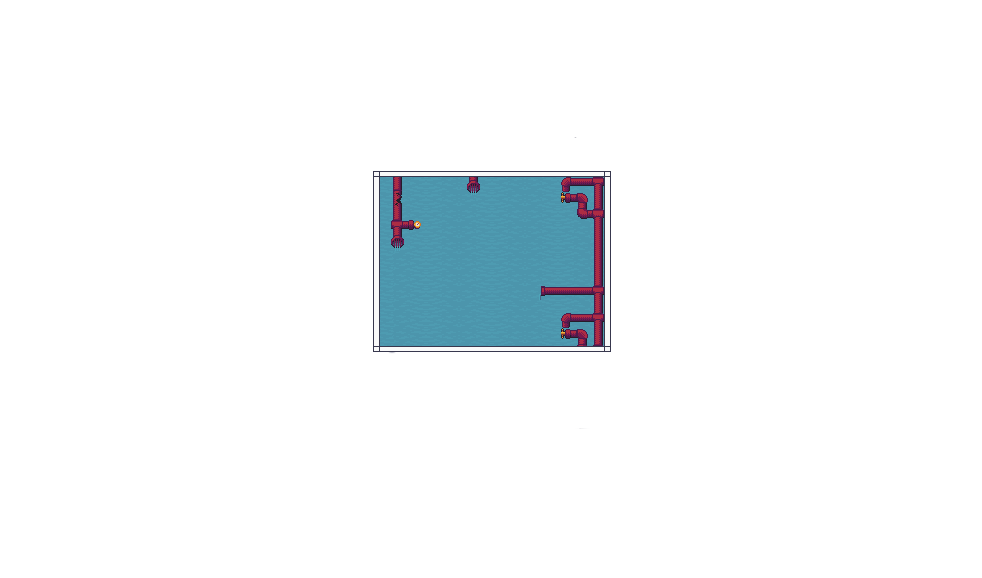
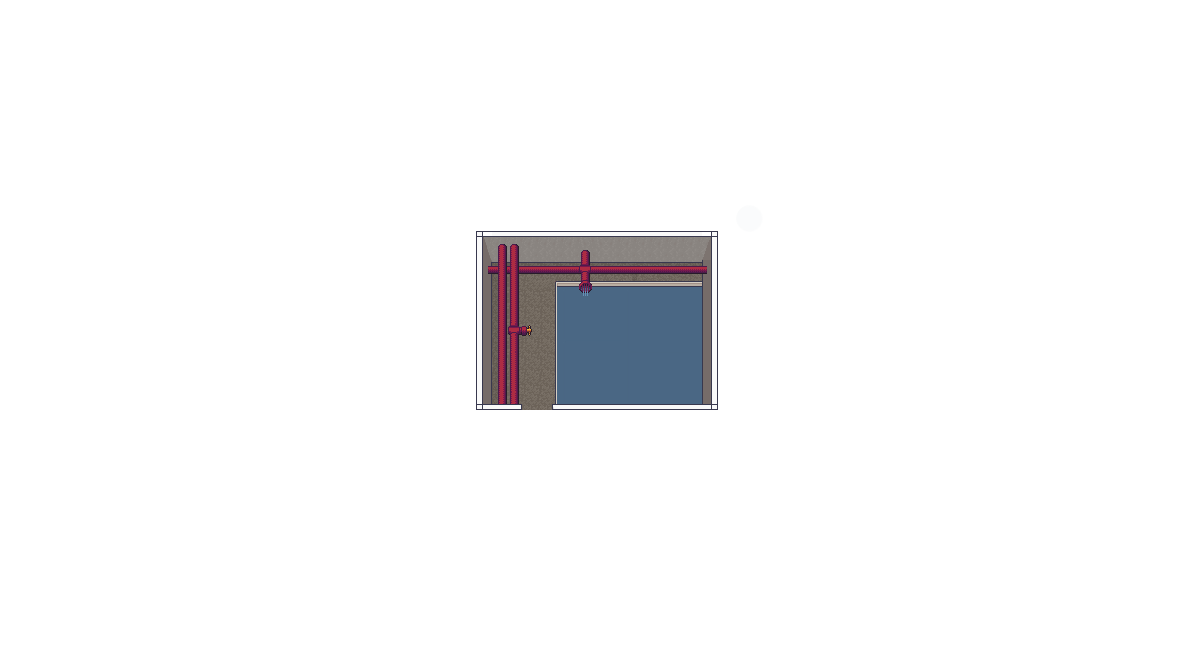
testing new level 1 map

Changed region(s): [[0.3666, 0.2803, 0.6415, 0.6228]]

diff --git a/Walls.js b/Walls.js
@@ -69,105 +69,54 @@ const wallsHouse = {
 };
 
 const wallsLevel1 = {            
-            [utils.asGridCoords(23.5, 10)]: true, 
-            [utils.asGridCoords(25.5, 14)]: true,
-            [utils.asGridCoords(24.5, 14)]: true,
-            [utils.asGridCoords(24.5, 15)]: true,
-            [utils.asGridCoords(24.5, 13)]: true,
-            [utils.asGridCoords(24.5, 12)]: true,
-            [utils.asGridCoords(24.5, 11)]: true,
-            [utils.asGridCoords(24.5, 10)]: true,
-            [utils.asGridCoords(25.5, 10)]: true,
-            [utils.asGridCoords(26.5, 10)]: true,
-            [utils.asGridCoords(27.5, 10)]: true,
-            [utils.asGridCoords(28.5, 10)]: true, 
-            [utils.asGridCoords(29.5, 10)]: true, 
-            [utils.asGridCoords(30.5, 10)]: true,
-            [utils.asGridCoords(31.5, 10)]: true, 
-            [utils.asGridCoords(32.5, 10)]: true,
-            [utils.asGridCoords(33.5, 10)]: true,
-            [utils.asGridCoords(34.5, 10)]: true,
-            [utils.asGridCoords(35.5, 10)]: true,
-            [utils.asGridCoords(36.5, 10)]: true,
-            [utils.asGridCoords(37.5, 10)]: true,
-            [utils.asGridCoords(38.5, 10)]: true,
-            [utils.asGridCoords(38.5, 11)]: true,
-            [utils.asGridCoords(38.5, 12)]: true,
-            [utils.asGridCoords(38.5, 13)]: true,
-            [utils.asGridCoords(38.5, 14)]: true,
-            [utils.asGridCoords(38.5, 15)]: true,
-            [utils.asGridCoords(38.5, 16)]: true,
-            [utils.asGridCoords(38.5, 17)]: true,
-            [utils.asGridCoords(38.5, 18)]: true,
-            [utils.asGridCoords(38.5, 19)]: true,
-            [utils.asGridCoords(38.5, 20)]: true,
-            [utils.asGridCoords(38.5, 21)]: true,
-            [utils.asGridCoords(38.5, 22)]: true,
-            [utils.asGridCoords(37.5, 22)]: true,
-            [utils.asGridCoords(36.5, 22)]: true,
-            [utils.asGridCoords(35.5, 22)]: true,
-            [utils.asGridCoords(34.5, 22)]: true,
-            [utils.asGridCoords(33.5, 22)]: true,
-            [utils.asGridCoords(32.5, 22)]: true,
-            [utils.asGridCoords(31.5, 22)]: true,
-            [utils.asGridCoords(30.5, 22)]: true,
-            [utils.asGridCoords(29.5, 22)]: true,
-            [utils.asGridCoords(28.5, 22)]: true,
-            [utils.asGridCoords(27.5, 22)]: true,
-            [utils.asGridCoords(26.5, 22)]: true,
-            [utils.asGridCoords(25.5, 22)]: true,
-            [utils.asGridCoords(24.5, 22)]: true,
-            [utils.asGridCoords(23.5, 22)]: true,
-            [utils.asGridCoords(22.5, 22)]: true,
-            [utils.asGridCoords(22.5, 21)]: true,
-            [utils.asGridCoords(22.5, 20)]: true,
-            [utils.asGridCoords(22.5, 19)]: true,
-            [utils.asGridCoords(22.5, 18)]: true,
-            [utils.asGridCoords(22.5, 17)]: true,
-            [utils.asGridCoords(22.5, 16)]: true,
-            [utils.asGridCoords(22.5, 15)]: true,
-            [utils.asGridCoords(22.5, 14)]: true,
-            [utils.asGridCoords(22.5, 13)]: true,
-            [utils.asGridCoords(22.5, 12)]: true,
-            [utils.asGridCoords(22.5, 11)]: true,
-            [utils.asGridCoords(22.5, 10)]: true,
-            [utils.asGridCoords(29.5, 11)]: true,
-            [utils.asGridCoords(39.5, 11)]: true,
-            [utils.asGridCoords(39.5, 12)]: true,
-            [utils.asGridCoords(40.5, 12)]: true,
-            [utils.asGridCoords(40.5, 13)]: true,
-            [utils.asGridCoords(41.5, 13)]: true,
-            [utils.asGridCoords(41.5, 14)]: true,
-            [utils.asGridCoords(41.5, 15)]: true,
-            [utils.asGridCoords(41.5, 18)]: true,
-            [utils.asGridCoords(41.5, 16)]: true,
-            [utils.asGridCoords(41.5, 18)]: true,
-            [utils.asGridCoords(41.5, 17)]: true,
-            [utils.asGridCoords(41.5, 19)]: true,
-            [utils.asGridCoords(41.5, 20)]: true,
-            [utils.asGridCoords(41.5, 21)]: true,
-            [utils.asGridCoords(40.5, 21)]: true,
-            [utils.asGridCoords(40.5, 20)]: true,
-            [utils.asGridCoords(39.5, 20)]: true,
-            [utils.asGridCoords(35.5, 12)]: true,
-            [utils.asGridCoords(35.5, 11)]: true,
-            [utils.asGridCoords(36.5, 11)]: true,
-            [utils.asGridCoords(36.5, 13)]: true,
-            [utils.asGridCoords(37.5, 11)]: true,
-            [utils.asGridCoords(37.5, 12)]: true,
-            [utils.asGridCoords(37.5, 13)]: true,
-            [utils.asGridCoords(37.5, 14)]: true,
-            [utils.asGridCoords(37.5, 15)]: true,
+            // Horizontal walls (top)
+            [utils.asGridCoords(31.5, 16)]: true,
+            [utils.asGridCoords(32.5, 16)]: true,
+            [utils.asGridCoords(33.5, 16)]: true,
+            [utils.asGridCoords(34.5, 16)]: true,
+            [utils.asGridCoords(35.5, 16)]: true,
+            [utils.asGridCoords(36.5, 16)]: true,
             [utils.asGridCoords(37.5, 16)]: true,
-            [utils.asGridCoords(37.5, 17)]: true,
-            [utils.asGridCoords(37.5, 18)]: true,
-            [utils.asGridCoords(37.5, 19)]: true,
-            [utils.asGridCoords(37.5, 20)]: true,
-            [utils.asGridCoords(37.5, 21)]: true,
-            [utils.asGridCoords(36.5, 21)]: true,
-            [utils.asGridCoords(35.5, 20)]: true,
-            [utils.asGridCoords(36.5, 20)]: true,
-            [utils.asGridCoords(36.5, 18)]: true,
-            [utils.asGridCoords(35.5, 18)]: true,
-            [utils.asGridCoords(34.5, 18)]: true,
+            [utils.asGridCoords(38.5, 16)]: true,
+            [utils.asGridCoords(39.5, 16)]: true,
+            [utils.asGridCoords(40.5, 16)]: true,
+            [utils.asGridCoords(41.5, 16)]: true,
+            [utils.asGridCoords(42.5, 16)]: true,
+            [utils.asGridCoords(43.5, 16)]: true,
+
+            // Vertical walls (right)
+            [utils.asGridCoords(43.5, 16)]: true,
+            [utils.asGridCoords(43.5, 17)]: true,
+            [utils.asGridCoords(43.5, 18)]: true,
+            [utils.asGridCoords(43.5, 19)]: true,
+            [utils.asGridCoords(43.5, 20)]: true,
+            [utils.asGridCoords(43.5, 21)]: true,
+            [utils.asGridCoords(43.5, 22)]: true,
+            [utils.asGridCoords(43.5, 23)]: true,
+            [utils.asGridCoords(43.5, 24)]: true,
+            [utils.asGridCoords(43.5, 25)]: true,
+
+            // Horizontal walls (bottom)
+            [utils.asGridCoords(31.5, 25)]: true,
+            [utils.asGridCoords(32.5, 25)]: true,
+            [utils.asGridCoords(33.5, 25)]: true,
+            [utils.asGridCoords(34.5, 25)]: true,
+            [utils.asGridCoords(35.5, 25)]: true,
+            [utils.asGridCoords(36.5, 25)]: true,
+            [utils.asGridCoords(37.5, 25)]: true,
+            [utils.asGridCoords(38.5, 25)]: true,
+            [utils.asGridCoords(39.5, 25)]: true,
+            [utils.asGridCoords(40.5, 25)]: true,
+            [utils.asGridCoords(41.5, 25)]: true,
+            [utils.asGridCoords(42.5, 25)]: true,
+            [utils.asGridCoords(43.5, 25)]: true,
+
+            // Vertical walls (left)
+            [utils.asGridCoords(31.5, 16)]: true,
+            [utils.asGridCoords(31.5, 17)]: true,
+            [utils.asGridCoords(31.5, 18)]: true,
+            [utils.asGridCoords(31.5, 19)]: true,
+            [utils.asGridCoords(31.5, 20)]: true,
+            [utils.asGridCoords(31.5, 21)]: true,
+            [utils.asGridCoords(31.5, 22)]: true,
 };

diff --git a/Level1.js b/Level1.js
@@ -449,9 +449,9 @@ const level1GameObjects = {
     
     // Update the operator in the Level1 map
     operator: new Person({
-        x: utils.withGrid(27.5),
-        y: utils.withGrid(13),
-        src: "images/characters/people/operatorUnderwater.png",
+        x: utils.withGrid(32.5),
+        y: utils.withGrid(17),
+        src: "images/characters/people/operator.png",
         // Make the operator stand still by using a simple behavior loop
         // with only one standing direction for a very long time
         behaviorLoop: [
@@ -461,29 +461,37 @@ const level1GameObjects = {
     }),
     // Add water debris items that float on the water
     debris1: new Person({
-        x: utils.withGrid(28.5),
-        y: utils.withGrid(18),
+        x: utils.withGrid(35.5),
+        y: utils.withGrid(24),
         src: "images/waterAssets/bottle.png", 
         behaviorLoop: [
             { type: "stand", direction: "down", time: 999999 }
         ]
     }),
     debris2: new Person({
-        x: utils.withGrid(31.5),
-        y: utils.withGrid(19),
+        x: utils.withGrid(41.5),
+        y: utils.withGrid(23),
         src: "images/waterAssets/box.png", // Create another debris image
         behaviorLoop: [
             { type: "stand", direction: "down", time: 999999 }
         ]
     }),
     debris3: new Person({
-        x: utils.withGrid(25.5),
-        y: utils.withGrid(20),
+        x: utils.withGrid(38.5),
+        y: utils.withGrid(21),
         src: "images/waterAssets/wheel.png", // Create a third debris image
         behaviorLoop: [
             { type: "stand", direction: "down", time: 999999 }
         ]
-    })
+    }),
+    debris4: new Person({
+        x: utils.withGrid(40.5),
+        y: utils.withGrid(19),
+        src: "images/waterAssets/box2.png", // Create a fourth debris image
+        behaviorLoop: [
+            { type: "stand", direction: "down", time: 999999 }
+        ]
+    }),
 };
 
 const flocPositions = [

diff --git a/OverworldMap.js b/OverworldMap.js
@@ -498,18 +498,19 @@ window.OverworldMaps = {
     
     // New Level1 map
     Level1: {
+        id: "Level1",
         lowerSrc: "images/maps/Level1Lower.png", 
         upperSrc: "images/maps/Level1Upper.png", 
         spawnpoint: { // 464 208
-            x: utils.withGrid(30.5),
-            y: utils.withGrid(14),
+            x: utils.withGrid(36.5),
+            y: utils.withGrid(20),
         },
         gameObjects: level1GameObjects,
         walls: wallsLevel1,
         buttonSpaces: {
 
             // Talking to operator event
-            [utils.asGridCoords(28.5, 13)]: introLevel1Event,
+            [utils.asGridCoords(32.5, 17)]: introLevel1Event,
 
             // Button spaces for the debris items
             [utils.asGridCoords(28.5, 17)]: collectDebris1Event,

diff --git a/Person.js b/Person.js
@@ -86,7 +86,7 @@ class Person extends GameObject {
   
     updateSprite() {
       // If the person is moving, set the animation to walk
-      //console.log("Current position: ", this.x / 16, this.y / 16, "Of person: ", this.id);
+      console.log("Current position: ", this.x / 16, this.y / 16, "Of person: ", this.id);
       if (this.movingProgressRemaining > 0) {
         this.sprite.setAnimation("walk-"+this.direction);
         return;
